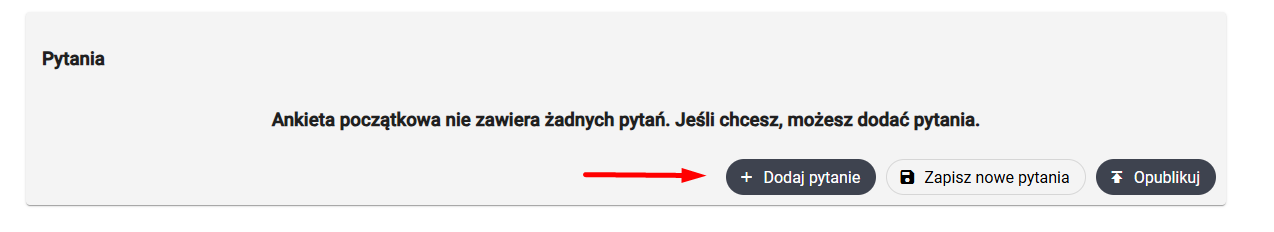
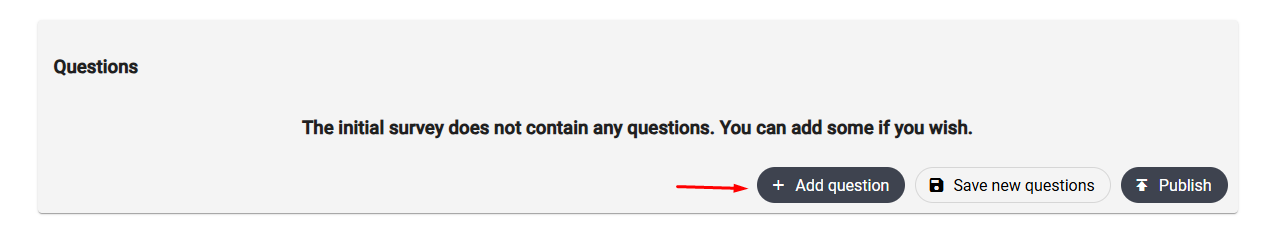
english initial survey

Changed region(s): [[0.0306, 0.6336, 0.9796, 0.9052], [0.2143, 0.4526, 0.7653, 0.5733], [0.0306, 0.2112, 0.1224, 0.3017]]

diff --git a/docs/user_documentation/en/initial_survey/initial_survey.md b/docs/user_documentation/en/initial_survey/initial_survey.md
@@ -1,49 +1,50 @@
-# Ankieta początkowa
+# Initial Survey
 
-Aby przejść do modułu `Ankieta początkowa`, wybierz odpowiednią zakładkę w bocznym panelu po lewej stronie ekranu
+To access the `Initial survey` module, select the appropriate tab in the left-side panel of the screen.
+
 ![alt text](imgs/turn_on.png)
 
-Ankieta początkowa różni się od standardowych ankiet. 
+The initial survey differs from standard surveys in the following ways:
 
-1. Respondenci wypełniają ją **tylko raz** (nie jest ona cyklicznie wysyłana)
-2. Zawiera ona **wyłącznie** pytanie wielokrotnego wyboru
+1. Respondents complete it **only once** (it is not sent periodically).
+2. It contains **only** multiple-choice questions.
 
-Ankieta ta służy pogrupowaniu respondentów. Możesz np. zebrać w tej ankiecie informacje o płci respondentów i tworzyć w standardowych ankietach sekcje tylko dla kobiet/mężczyzn. Więcej o tym w dokumencie poświęconym modułowi `Tworzenie ankiet`.
+The purpose of this survey is to group respondents. For example, you can use it to collect information about respondents' sex and create sections in standard surveys specifically for women or men. More details can be found in the `Creating Surveys` module documentation.
 
-### UWAGA
+### NOTE
 
-Opublikowanie ankiety początkowej jest możliwe w dowolnym momencie trwania badania, jednak zaleca się, aby zrobić to przed rozpoczęciem badania. 
+The initial survey can be published at any time during the study. However, it is recommended to publish it before the study begins.
 
-## Dodawanie pytań do ankiety początkowej
+## Adding Questions to the Initial Survey
 
-Jeśli w ankiecie początkowej nie ma jeszcze żadnych pytań, będziesz mógł je dodać za pomocą przycisku `Dodaj pytanie`:
+If the initial survey does not yet contain any questions, you can add them using the `Add Question` button:
 
 ![alt text](imgs/add_question.png)
 
-Podobnie taki przycisk znajdziesz poniżej już isteniejących pytań, jeśli chcesz dodać nowe.
+Similarly, you will find this button below the existing questions if you wish to add more.
 
-## Usuwanie i modyfikacja pytań
+## Deleting and Modifying Questions
 
-Pytania do czasu publikacji ankietyu można modyfikować i usuwać. Odpowiednie przyciski pozwolą ci
-- przesunąć pytanie/opcję w dół lub w górę
-- usunąć pytanie lub opcję
+Until the survey is published, questions can be modified and deleted. The appropriate buttons allow you to:
+- Move a question/option up or down.
+- Delete a question or option.
 
 ![alt text](imgs/edit_question.png)
 
-## Zapisywanie zmian
+## Saving Changes
 
-Jeśli chcesz zapisać zmiany w aniecie początkowej, wciścij przycisk `Zapisz zmiany`. 
+To save changes to the initial survey, press the `Save new questions` button.
 
-## Publikacja ankiety
+## Publishing the Survey
 
-Aby ankieta początkowa była możliwa do wypełnienia przez respondentów, musi zostać opublikowana. Po publikacji, ankieta zostanie wyświetlona respondentom, kiedy następnym razem uruchomią oni aplikację w trybie online. 
+For the initial survey to be available for respondents to complete, it must be published. Once published, the survey will be displayed to respondents the next time they launch the application in online mode.
 
-### UWAGA!
+### NOTE!
 
-Publikacja ankiety jest procesem **nieodwracalnym**. Nie można już później dodawać, usuwać, ani modyfikować pytań.
+Publishing a survey is an **irreversible** process. After publication, you cannot add, delete, or modify questions.
 
-Aby opublikować ankietę, wciśnij przycisk `Opublikuj` pod listą pytać. Następnie w oknie z ostrzeżeniem
+To publish the survey, press the `Publish` button below the list of questions. Then, in the warning window:
 
 ![alt text](imgs/publish_warning.png)
 
-wpisz `opublikuj` i wciśnij `Potwierdź` lub `Enter` na klawiaturze. 
+type `publish` and press `Confirm` or hit `Enter` on your keyboard.
